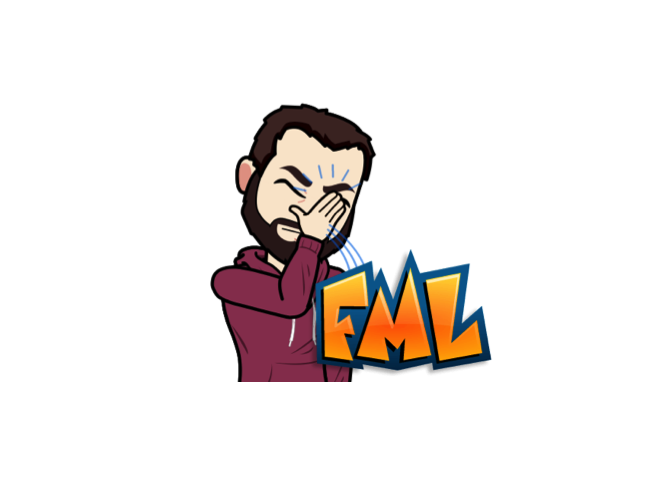
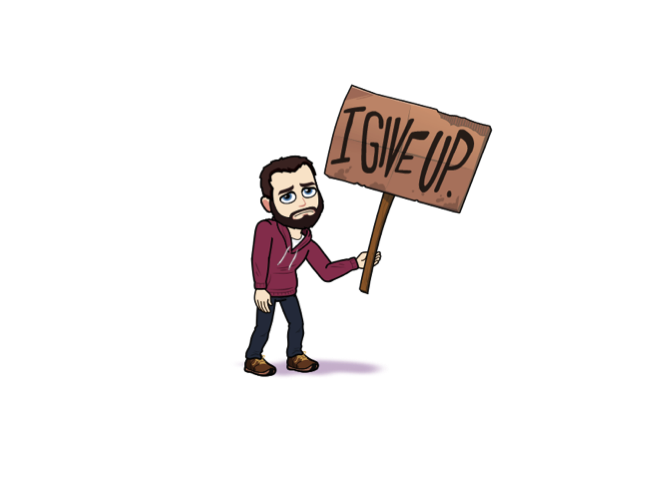
add usable functions

Changed region(s): [[0.3125, 0.1562, 0.75, 0.8125]]

diff --git a/README.md b/README.md
@@ -30,8 +30,8 @@ Basic (and I mean basic) usage
 
 ``` r
 library(RBitmoji)
-set.seed(105)  # for reproducibility
-plot_comic("8b06e67b-d4e9-4f11-a355-f1236df17079-v1", tag = "fml")
+set.seed(101)  # for reproducibility
+plot_comic("8b06e67b-d4e9-4f11-a355-f1236df17079-v1", tag = "fail")
 ```
 
 <img src="tools/README-unnamed-chunk-2-1.png" style="display: block; margin: auto;" />
